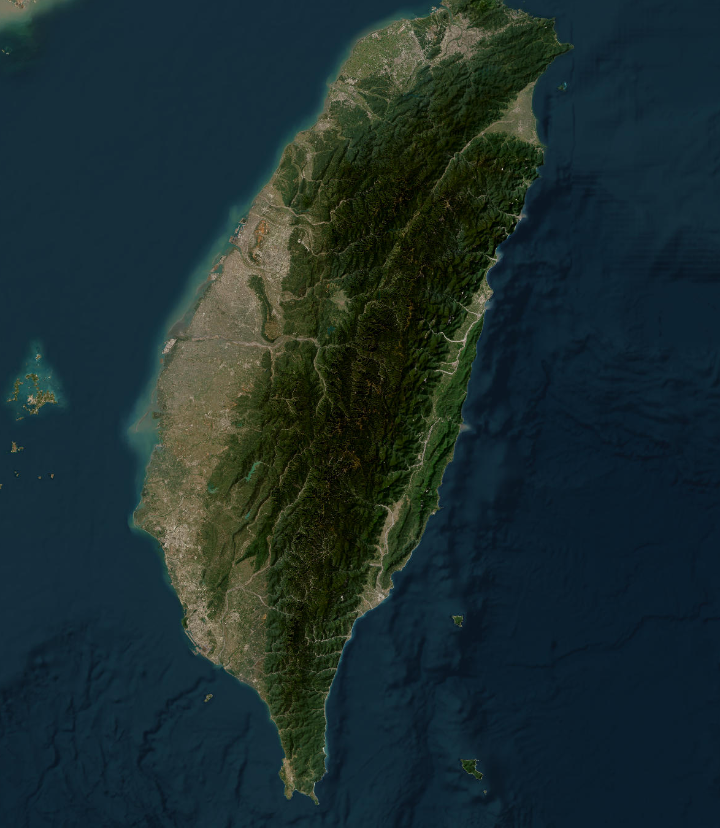
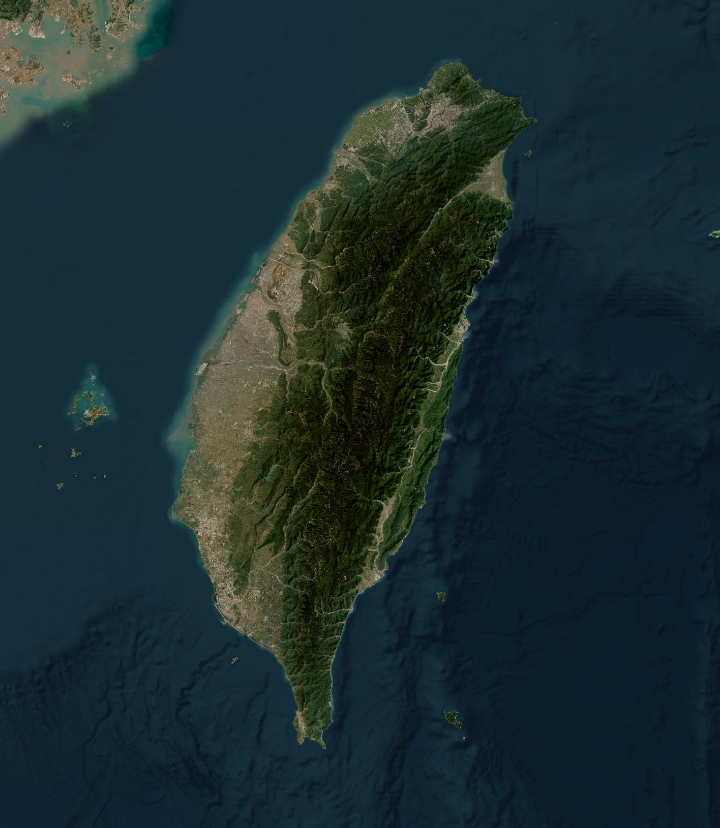
Give Nantou map more space and place station in Puli

diff --git a/units/2/parts/2.1/index.html b/units/2/parts/2.1/index.html
@@ -999,7 +999,7 @@
         </section>
         <section class="field-task" id="unit-quiz" aria-labelledby="unit-quiz-title">
           <header class="field-task-head">
-            <div><p class="field-task-kicker">單元小測｜防災演練</p><h2 id="unit-quiz-title">南投觀測站還要多久會感受到震動？</h2><p class="field-task-subtitle">從波形和刻度判讀資料，估算 P 波與 S 波抵達的時間。</p></div>
+            <div><p class="field-task-kicker">單元小測｜防災演練</p><h2 id="unit-quiz-title">南投埔里觀測點還要多久會感受到震動？</h2><p class="field-task-subtitle">從波形和刻度判讀資料，估算 P 波與 S 波抵達的時間。</p></div>
             <span class="drill-badge">情境題</span>
           </header>
           <div class="field-task-grid">
@@ -1008,22 +1008,22 @@
               <div class="field-map-wrap">
                 <div class="field-map-scene">
                   <img class="field-map-art" src="assets/taiwan-satellite-map-3857.png" alt="" aria-hidden="true">
-                  <svg class="field-map" viewBox="0 0 720 828" preserveAspectRatio="none" role="img" aria-label="依真實地理座標繪製的臺灣衛星地圖。南投市觀測站設定點位於北緯23.9099561度、東經120.6837059度；東部外海震央情境點位於北緯23.91度、東經121.86度，直線距離約120公里。">
-                    <path class="map-route" d="M278.21 316.70 L540.86 316.69"/>
-                    <circle class="quake-ring" cx="540.86" cy="316.69" r="25"/><circle class="quake-ring" cx="540.86" cy="316.69" r="43"/>
-                    <circle class="station-halo" cx="278.21" cy="316.70" r="10"/>
-                    <circle class="quake-halo" cx="540.86" cy="316.69" r="10"/>
-                    <rect class="map-label-bg" x="188" y="244" width="180" height="38" rx="10"/><text x="278" y="270" text-anchor="middle">南投觀測站</text>
-                    <rect class="map-label-bg" x="430" y="244" width="222" height="38" rx="10"/><text x="541" y="270" text-anchor="middle">震央・東部外海</text>
+                  <svg class="field-map" viewBox="0 0 720 828" preserveAspectRatio="none" role="img" aria-label="依真實地理座標繪製的臺灣衛星地圖。南投埔里設定觀測點位於北緯23.9666667度、東經120.9691462度；東部外海震央情境點位於北緯23.91度、東經122.15度，直線距離約120公里。">
+                    <path class="map-route" d="M345.04 332.97 L563.58 344.45"/>
+                    <circle class="quake-ring" cx="563.58" cy="344.45" r="25"/><circle class="quake-ring" cx="563.58" cy="344.45" r="43"/>
+                    <circle class="station-halo" cx="345.04" cy="332.97" r="10"/>
+                    <circle class="quake-halo" cx="563.58" cy="344.45" r="10"/>
+                    <rect class="map-label-bg" x="250" y="260" width="190" height="38" rx="10"/><text x="345" y="286" text-anchor="middle">南投・埔里觀測點</text>
+                    <rect class="map-label-bg" x="453" y="244" width="222" height="38" rx="10"/><text x="564" y="270" text-anchor="middle">震央・東部外海</text>
                     <text x="28" y="43" font-size="26px">N ↑</text>
                     <g class="map-scale" aria-hidden="true">
-                      <path d="M24 790 H240.27 M24 782 V798 M240.27 782 V798"/>
-                      <text x="132.14" y="775">100 km</text>
+                      <path d="M24 790 H202.93 M24 782 V798 M202.93 782 V798"/>
+                      <text x="113.47" y="775">100 km</text>
                     </g>
                   </svg>
                 </div>
                 <p class="field-map-credit">衛星影像來源：Tiles © Esri — Source: Esri, Maxar, Earthstar Geographics, and the GIS User Community</p>
-                <p class="field-distance">震央至南投市設定點：約 120 km</p>
+                <p class="field-distance">震央至南投埔里設定點：約 120 km</p>
               </div>
             </section>
             <section class="field-panel field-signal-panel" aria-labelledby="field-signal-title">

diff --git a/units/2/parts/2.1/assets/README.md b/units/2/parts/2.1/assets/README.md
@@ -4,4 +4,4 @@
 - 頭像圖由本專案既有的 `parts/3.1/assets/dialogue-character-avatars.png` 共用；左半為小葵，右半為阿公。頁面以 CSS 裁切對應半幅。
 - `wave-story-opening-outdoor.png` 為 2.1 標題區的開場情境圖；手持繩已調整為與繩波圖相同的蜜棕色編織材質。
 - `wave-rope-texture.png` 是共用編織繩的原始素材；`wave-rope-strip.png` 裁掉外緣、保留完整棕褐色繩股，用於會移動或可操作的波形例圖；完全靜態的波形示意則使用綠色細線。
-- `taiwan-satellite-map-3857.png` 是 Esri World Imagery 衛星影像匯出圖，採 EPSG:3857 範圍 `x=13295745.8964–13654702.8246 m`、`y=2487529.7151–2900330.1826 m`，尺寸 720 × 828。地圖 SVG 使用相同投影範圍；南投市設定點與震央座標分別為 (23.9099561°N, 120.6837059°E) 與 (23.91°N, 121.86°E)，100 公里比例尺依比例尺所在緯度 21.96°N 的 Web Mercator 地面距離換算。影像來源：Tiles © Esri — Source: Esri, Maxar, Earthstar Geographics, and the GIS User Community.
+- `taiwan-satellite-map-3857.png` 是 Esri World Imagery 衛星影像匯出圖，採 EPSG:3857 範圍 `x=13258692.2314–13691756.4896 m`、`y=2451599.0874–2949622.9843 m`，尺寸 720 × 828；較寬的範圍讓臺灣北端完整留白。地圖 SVG 使用相同投影範圍；南投埔里設定觀測點與東部外海震央情境點座標分別為 (23.9666667°N, 120.9691462°E) 與 (23.91°N, 122.15°E)，兩點直線距離約 120.2 km。100 公里比例尺依比例尺所在緯度 21.69°N 的 Web Mercator 地面距離換算。影像來源：Tiles © Esri — Source: Esri, Maxar, Earthstar Geographics, and the GIS User Community.
